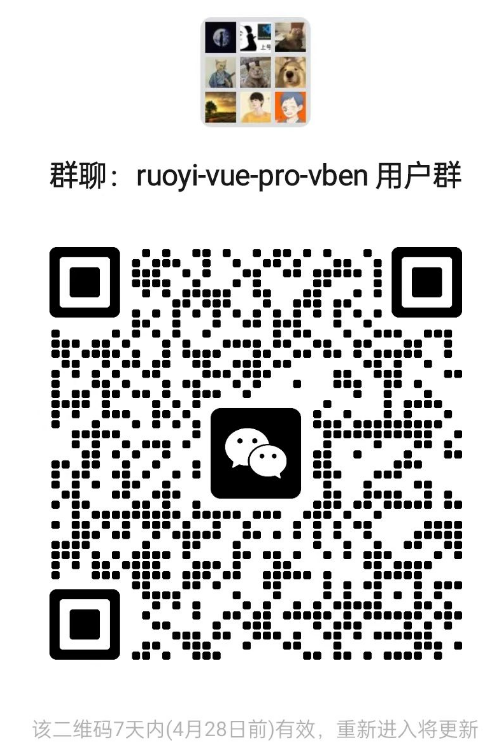
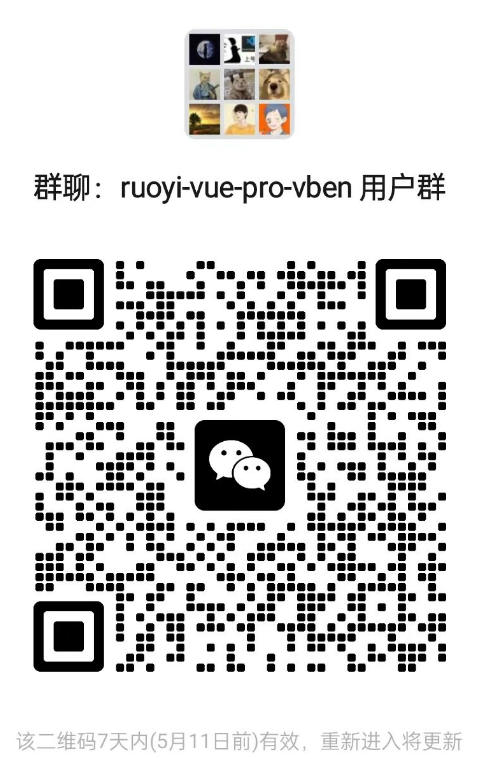
docs: wx

diff --git a/README.md b/README.md
@@ -24,6 +24,8 @@
 
 - [Star 点击查看](https://gitee.com/yudaocode/yudao-ui-admin-vben/issues/I6R8J0)
 
+- <img alt="index.vue" width="400px" src="./public/resource/img/wx.png"></img>
+
 ## 开发进度
 
 - 系统管理 页面适配 99%
